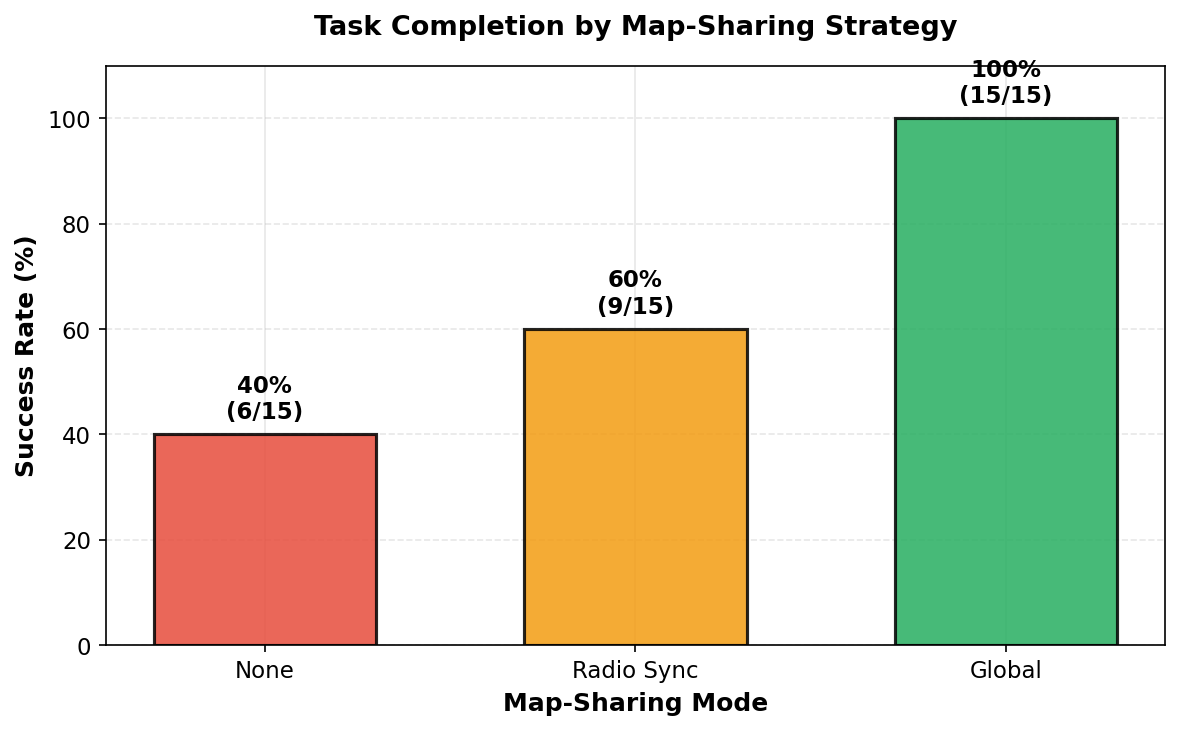
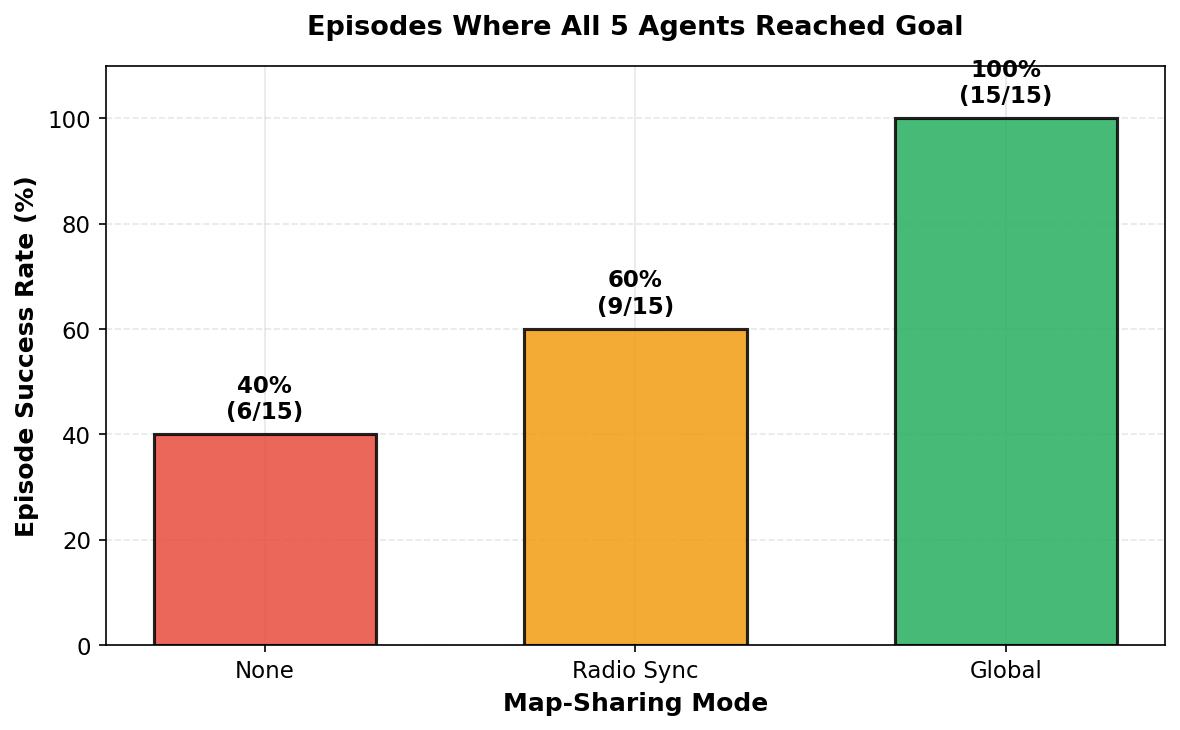
fix: clarify map-sharing plot labels for episode-level measurement
Change 'Success Rate' to 'Episode Success Rate' and clarify title shows
episodes where all 5 agents reached goal, not individual agent outcomes.

Changed region(s): [[0.2441, 0.0, 0.8237, 0.0603], [0.0, 0.2411, 0.0305, 0.7534]]

diff --git a/analysis/mapshare/generate_plots.py b/analysis/mapshare/generate_plots.py
@@ -215,9 +215,9 @@ def plot_1_success_rate(data):
                 f'{rate:.0f}%\n({successful}/{total})',
                 ha='center', va='bottom', fontweight='bold', fontsize=11)
 
-    ax.set_ylabel('Success Rate (%)', fontweight='bold')
+    ax.set_ylabel('Episode Success Rate (%)', fontweight='bold')
     ax.set_xlabel('Map-Sharing Mode', fontweight='bold')
-    ax.set_title('Task Completion by Map-Sharing Strategy', fontweight='bold', pad=15)
+    ax.set_title('Episodes Where All 5 Agents Reached Goal', fontweight='bold', pad=15)
     ax.set_ylim(0, 110)
     ax.grid(axis='y', alpha=0.3, linestyle='--')
     ax.set_axisbelow(True)
